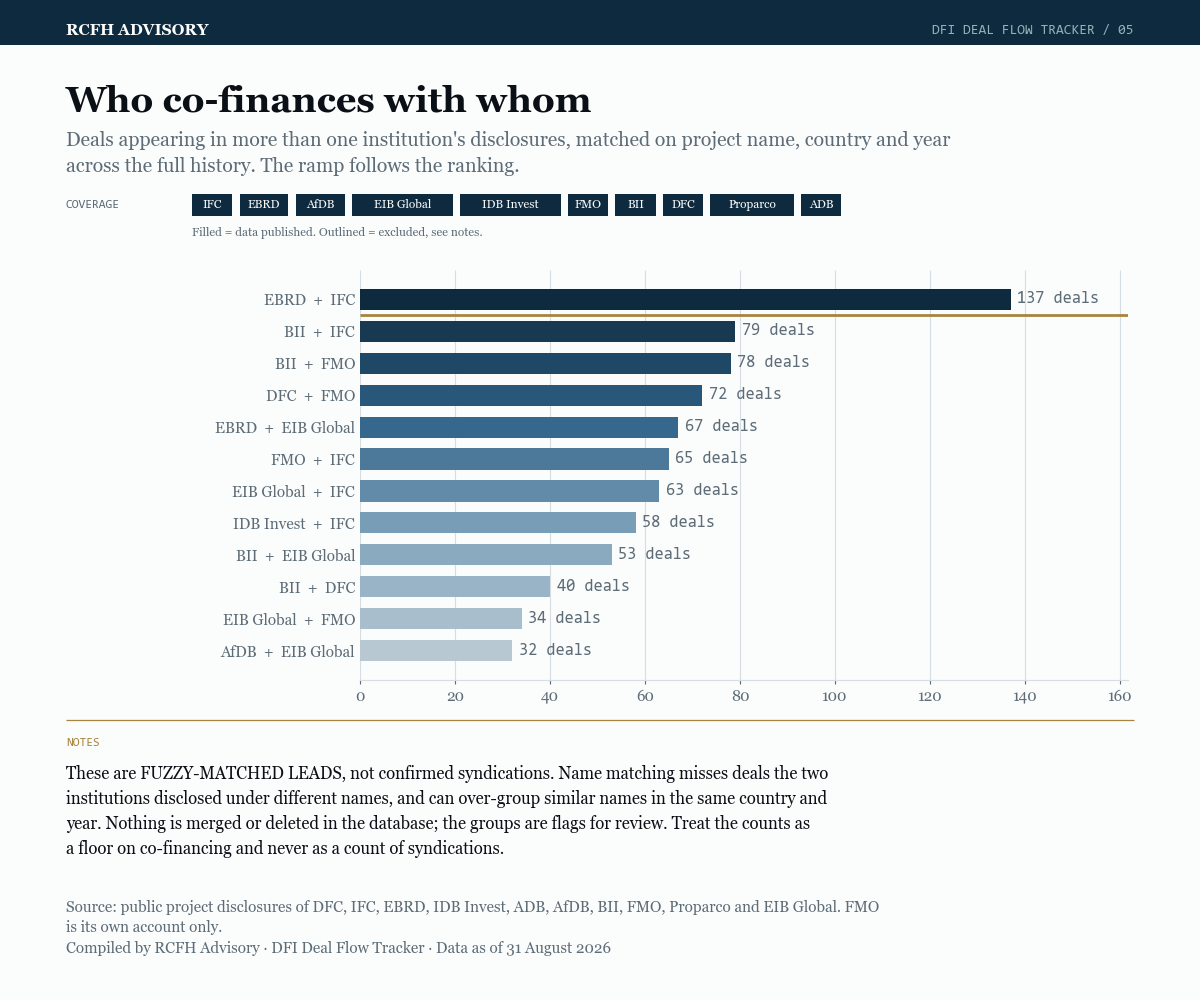
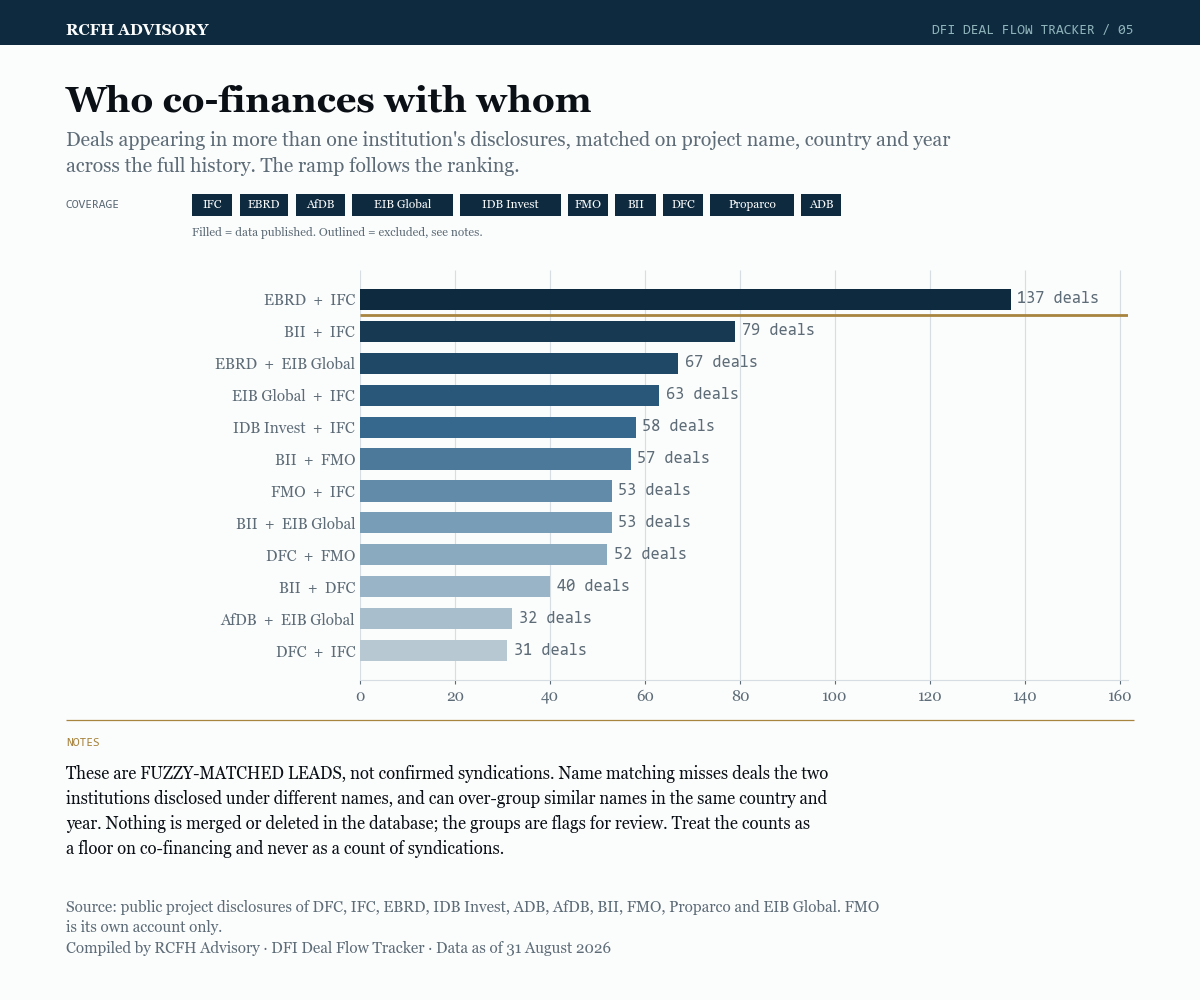
Count only FMO's own account in the co-financing exhibit
Exhibit 05 was the one chart without the OWN_ACCOUNT filter, so the Dutch
government funds FMO administers inflated every FMO pair while the
chart's own source line said "FMO is its own account only": BII + FMO
78 -> 57, DFC + FMO 72 -> 52, FMO + IFC 65 -> 53. DFC + IFC (31) re-enters
the top twelve. Ties now shade the higher bar deeper; by_rank handed the
tie to the lower bar, which read as a break in the ramp.

diff --git a/export_charts.py b/export_charts.py
@@ -291,9 +291,13 @@ def cofinancing_pairs(conn, stamp):
     import collections
     import itertools
     groups = collections.defaultdict(set)
+    # FMO's own account only, as the source line states and every other
+    # exhibit applies. Until 2026-09-24 this query had no filter, so the Dutch
+    # government funds FMO administers inflated every FMO pair (BII + FMO 78
+    # against 57 own-account).
     for r in conn.execute(
             "SELECT probable_duplicate_group g, institution i FROM projects "
-            "WHERE probable_duplicate_group IS NOT NULL"):
+            f"WHERE probable_duplicate_group IS NOT NULL AND {OWN_ACCOUNT}"):
         groups[r["g"]].add(r["i"])
     pairs = collections.Counter()
     for insts in groups.values():
@@ -311,7 +315,11 @@ def cofinancing_pairs(conn, stamp):
                 exhibit="05")
     rcfh.coverage(fig, included=ALL_TEN)
     fig.subplots_adjust(left=0.30)
-    ax.barh(range(len(values)), values, color=rcfh.by_rank(values),
+    # Ties broken by position, higher bar deeper: by_rank alone gives a tie
+    # to the LOWER bar (the list runs bottom-up), which reads as a break in
+    # the ramp.
+    ax.barh(range(len(values)), values,
+            color=rcfh.by_rank([(v, i) for i, v in enumerate(values)]),
             height=0.66, zorder=3)
     ax.set_yticks(range(len(labels)))
     ax.set_yticklabels(labels)
